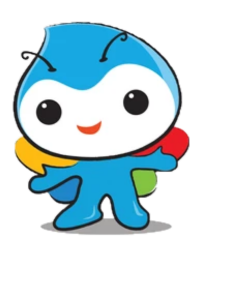
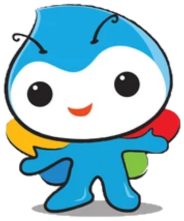
fix bug

diff --git a/components/teacher/content/AddContent.tsx b/components/teacher/content/AddContent.tsx
@@ -1,0 +1,66 @@
+import { useState } from "react";
+
+const AddContent = () => {
+  const [formData, setFormData] = useState<any>({});
+  const [notif, setNotif] = useState<string>("");
+
+  const handleFormChange = (e: any) => {
+    const target = e.target;
+    const name = target.name;
+    const value = target.value;
+
+    setFormData({
+      ...formData,
+      [name]: value,
+    });
+  };
+
+  const createContent = async (e: any) => {
+    e.preventDefault();
+    const res = await fetch(`/api/questions`, {
+      method: "POST",
+      headers: {
+        "Content-Type": "application/json",
+      },
+      body: JSON.stringify(formData),
+    });
+
+    const resData = await res.json();
+    if (resData.success) {
+      setTimeout(() => {
+        setNotif("Success!");
+      }, 2000);
+    }
+  };
+
+  return (
+    <form onSubmit={createContent}>
+      {notif !== "" ? <div>{notif}</div> : <></>}
+      <div className="flex flex-col p-2">
+        <label htmlFor="topic">Topic</label>
+        <input
+          onChange={handleFormChange}
+          className="p-2 rounded-xl"
+          type="text"
+          placeholder="Topic"
+          name="topic"
+        />
+        <label htmlFor="content">Content</label>
+        <textarea
+          onChange={handleFormChange}
+          className="p-2 rounded-xl"
+          placeholder="Content"
+          name="content"
+        ></textarea>
+        <button
+          className="rounded-xl border-2 border-white p-2 mt-2"
+          type="submit"
+        >
+          Submit
+        </button>
+      </div>
+    </form>
+  );
+};
+
+export default AddContent;

diff --git a/components/teacher/content/Quizzes/GeneratingModal.tsx b/components/teacher/content/Quizzes/GeneratingModal.tsx
@@ -1,16 +1,20 @@
 import { faCircleNotch } from "@fortawesome/free-solid-svg-icons";
 import { FontAwesomeIcon } from "@fortawesome/react-fontawesome";
+import Image from "next/image";
+import mascot from "../../../../public/mascot.png";
 
 const GeneratingModal = () => {
   return (
     <div className="text-black fixed z-50 top-0 left-0 flex justify-center items-center h-screen w-screen">
       <div className="bg-white p-8">
-        <h1 className="font-bold">Generating Question.</h1>
+        <h1 className="font-bold flex justify-center">Generating Question</h1>
         <div className="flex flex-col justify-center items-center">
-          <span className="p-8 m-4">
-            <FontAwesomeIcon size="8x" icon={faCircleNotch} spin />
+          <Image src={mascot} alt="Picture of the author" />
+
+          <h1>Please wait SchroAI doing something amazing!</h1>
+          <span className="p-2">
+            <FontAwesomeIcon size="1x" icon={faCircleNotch} spin />
           </span>
-          <h1>Please wait us doing something amazing!</h1>
         </div>
       </div>
     </div>

diff --git a/pages/api/questions/index.js b/pages/api/questions/index.js
@@ -1,0 +1,32 @@
+import dbConnect from "../../../utils/dbConnect";
+import Question from "../../../data/models/Question";
+
+export default async function handler(req, res) {
+  const {
+    query: {},
+    method,
+  } = req;
+
+  dbConnect();
+
+  switch (method) {
+    case "POST":
+      try {
+        const question = await Question.create({
+          ...req.body,
+          source:
+            "Ilmu Pengetahuan Alam / Kementerian Pendidikan dan Kebudayaan.-- . Edisi Revisi Jakarta : Kementerian Pendidikan dan Kebudayaan, 2018.",
+        });
+        if (question === undefined || question === null) {
+          return res.status(200).json({ success: false });
+        }
+        return res.status(200).json({ success: true });
+      } catch (error) {
+        console.error(`ERROR when creating question`, error);
+        return res.status(200).json({ success: false });
+      }
+
+    default:
+      return res.status(200).json({ success: false });
+  }
+}

diff --git a/components/teacher/Content.tsx b/components/teacher/Content.tsx
@@ -1,11 +1,12 @@
 import { FC } from "react";
+import AddContent from "./content/AddContent";
 import Classes from "./content/Classes";
 import Questions from "./content/QuestionsOld";
 import Quizzes from "./content/Quizzes";
 import Remedials from "./content/Remedials";
 
 interface Props {
-  selectedMenu: string; 
+  selectedMenu: string;
 }
 
 const Content: FC<Props> = (props) => {
@@ -19,6 +20,8 @@ const Content: FC<Props> = (props) => {
         <Classes />
       ) : props.selectedMenu === "Remedials" ? (
         <Remedials />
+      ) : props.selectedMenu === "Add Content" ? (
+        <AddContent />
       ) : (
         <></>
       )}

diff --git a/components/teacher/Layout.tsx b/components/teacher/Layout.tsx
@@ -9,6 +9,7 @@ import {
   faEllipsisV,
   faBookOpen,
   faUndo,
+  faBookReader,
 } from "@fortawesome/free-solid-svg-icons";
 import Content from "./Content";
 
@@ -28,6 +29,10 @@ const menusList = [
   {
     name: "Remedials",
     icon: faUndo,
+  },
+  {
+    name: "Add Content",
+    icon: faBookReader,
   },
 ];
 
